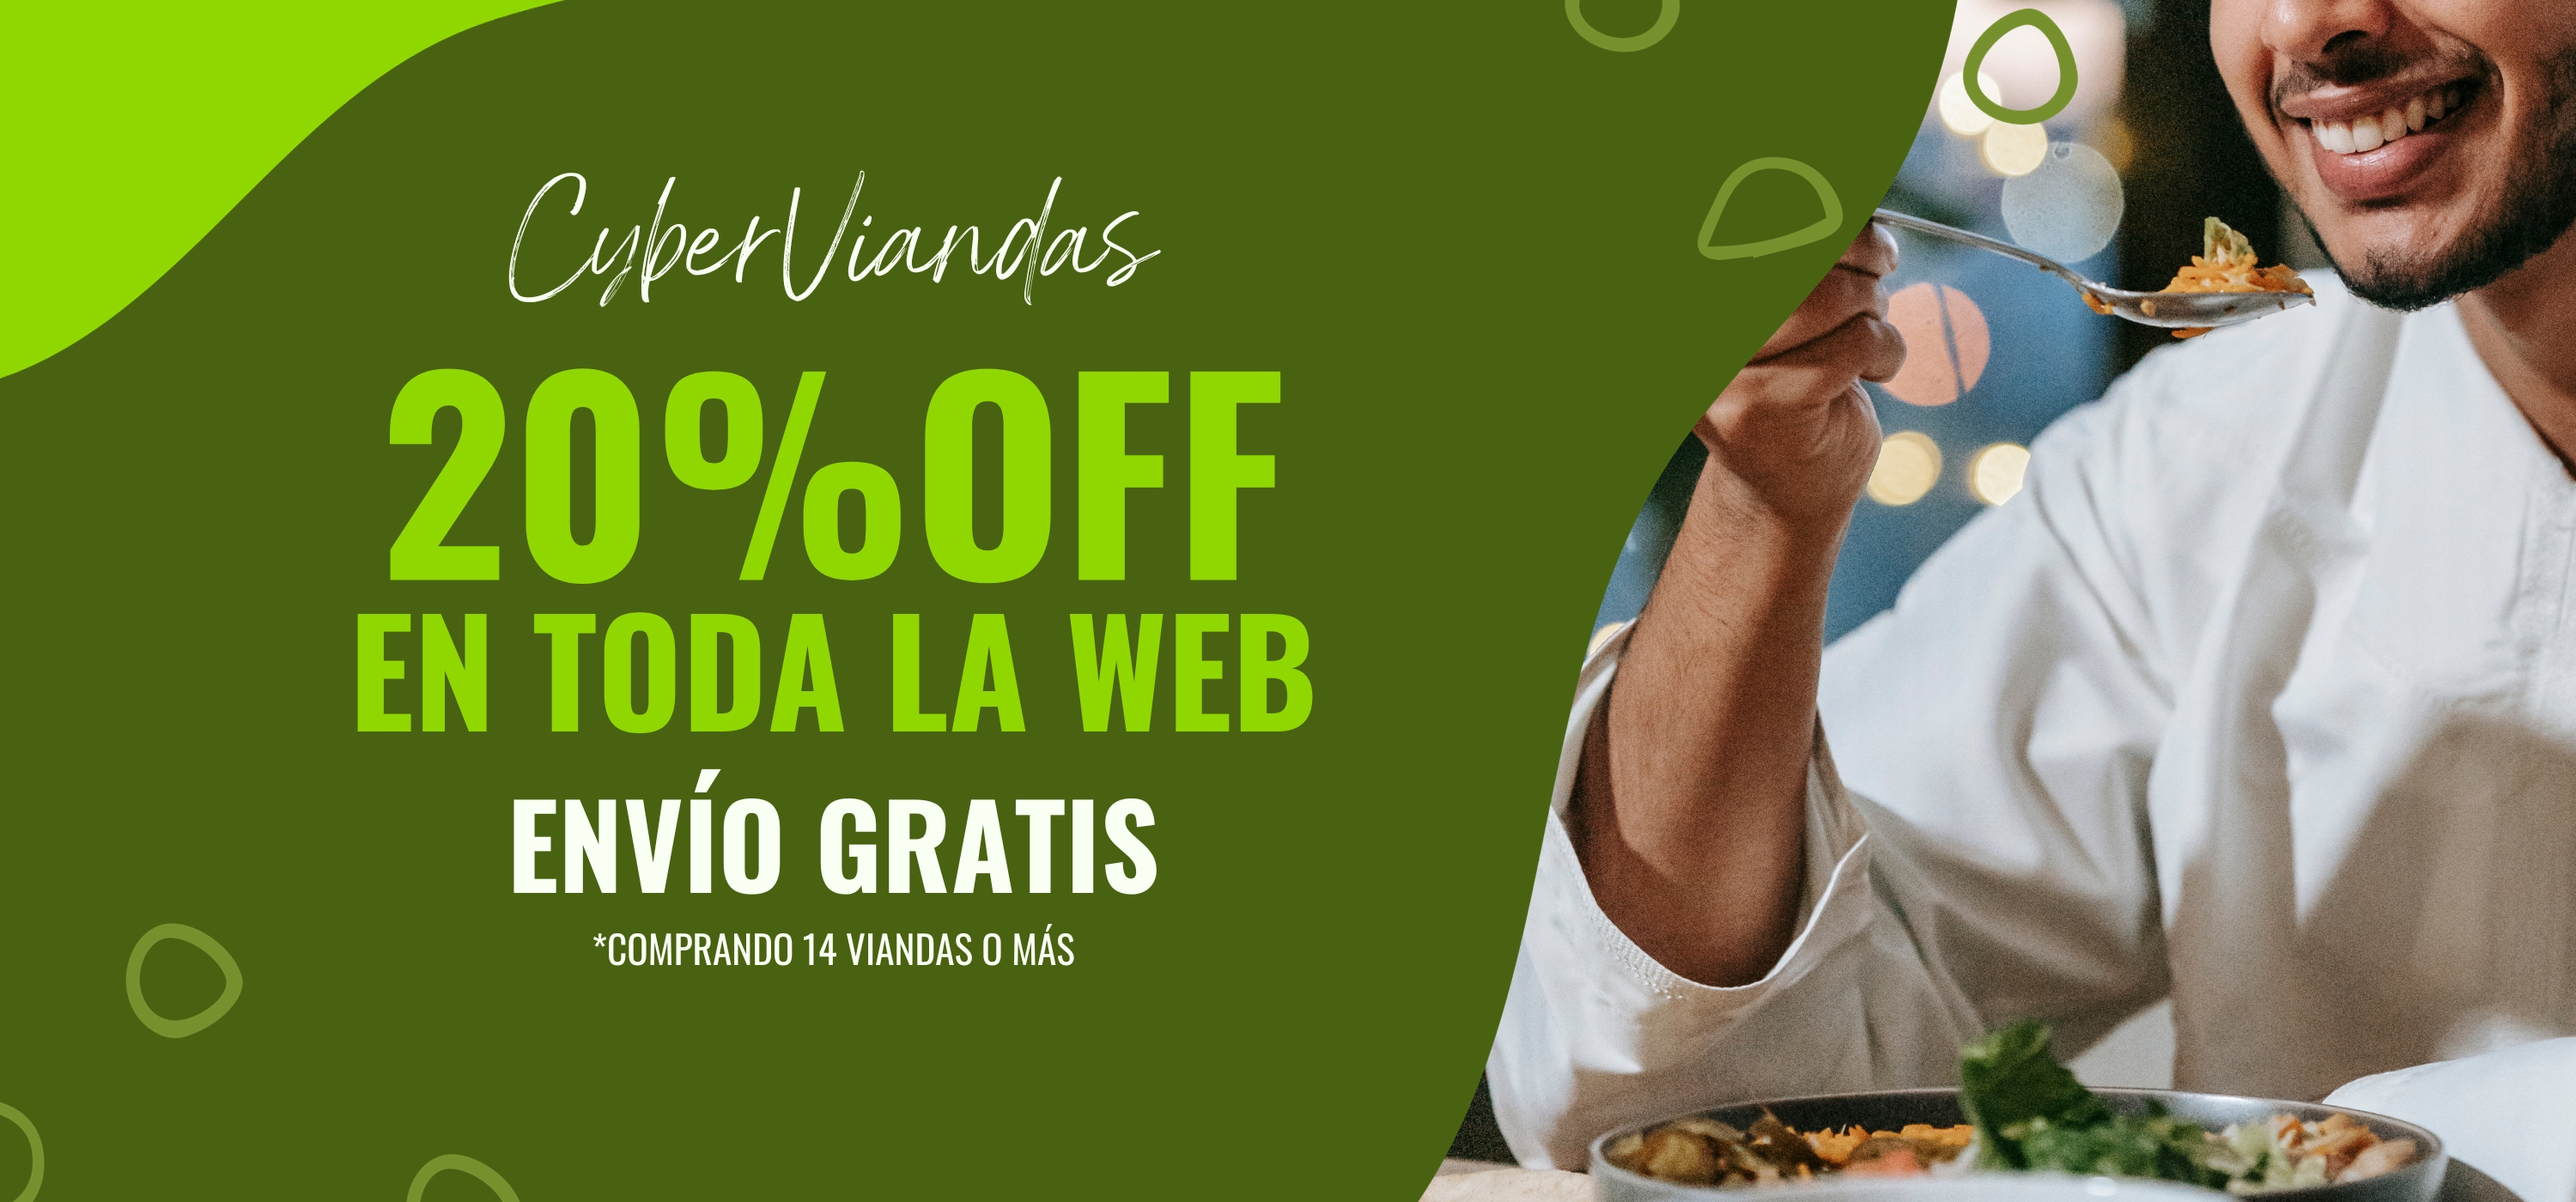
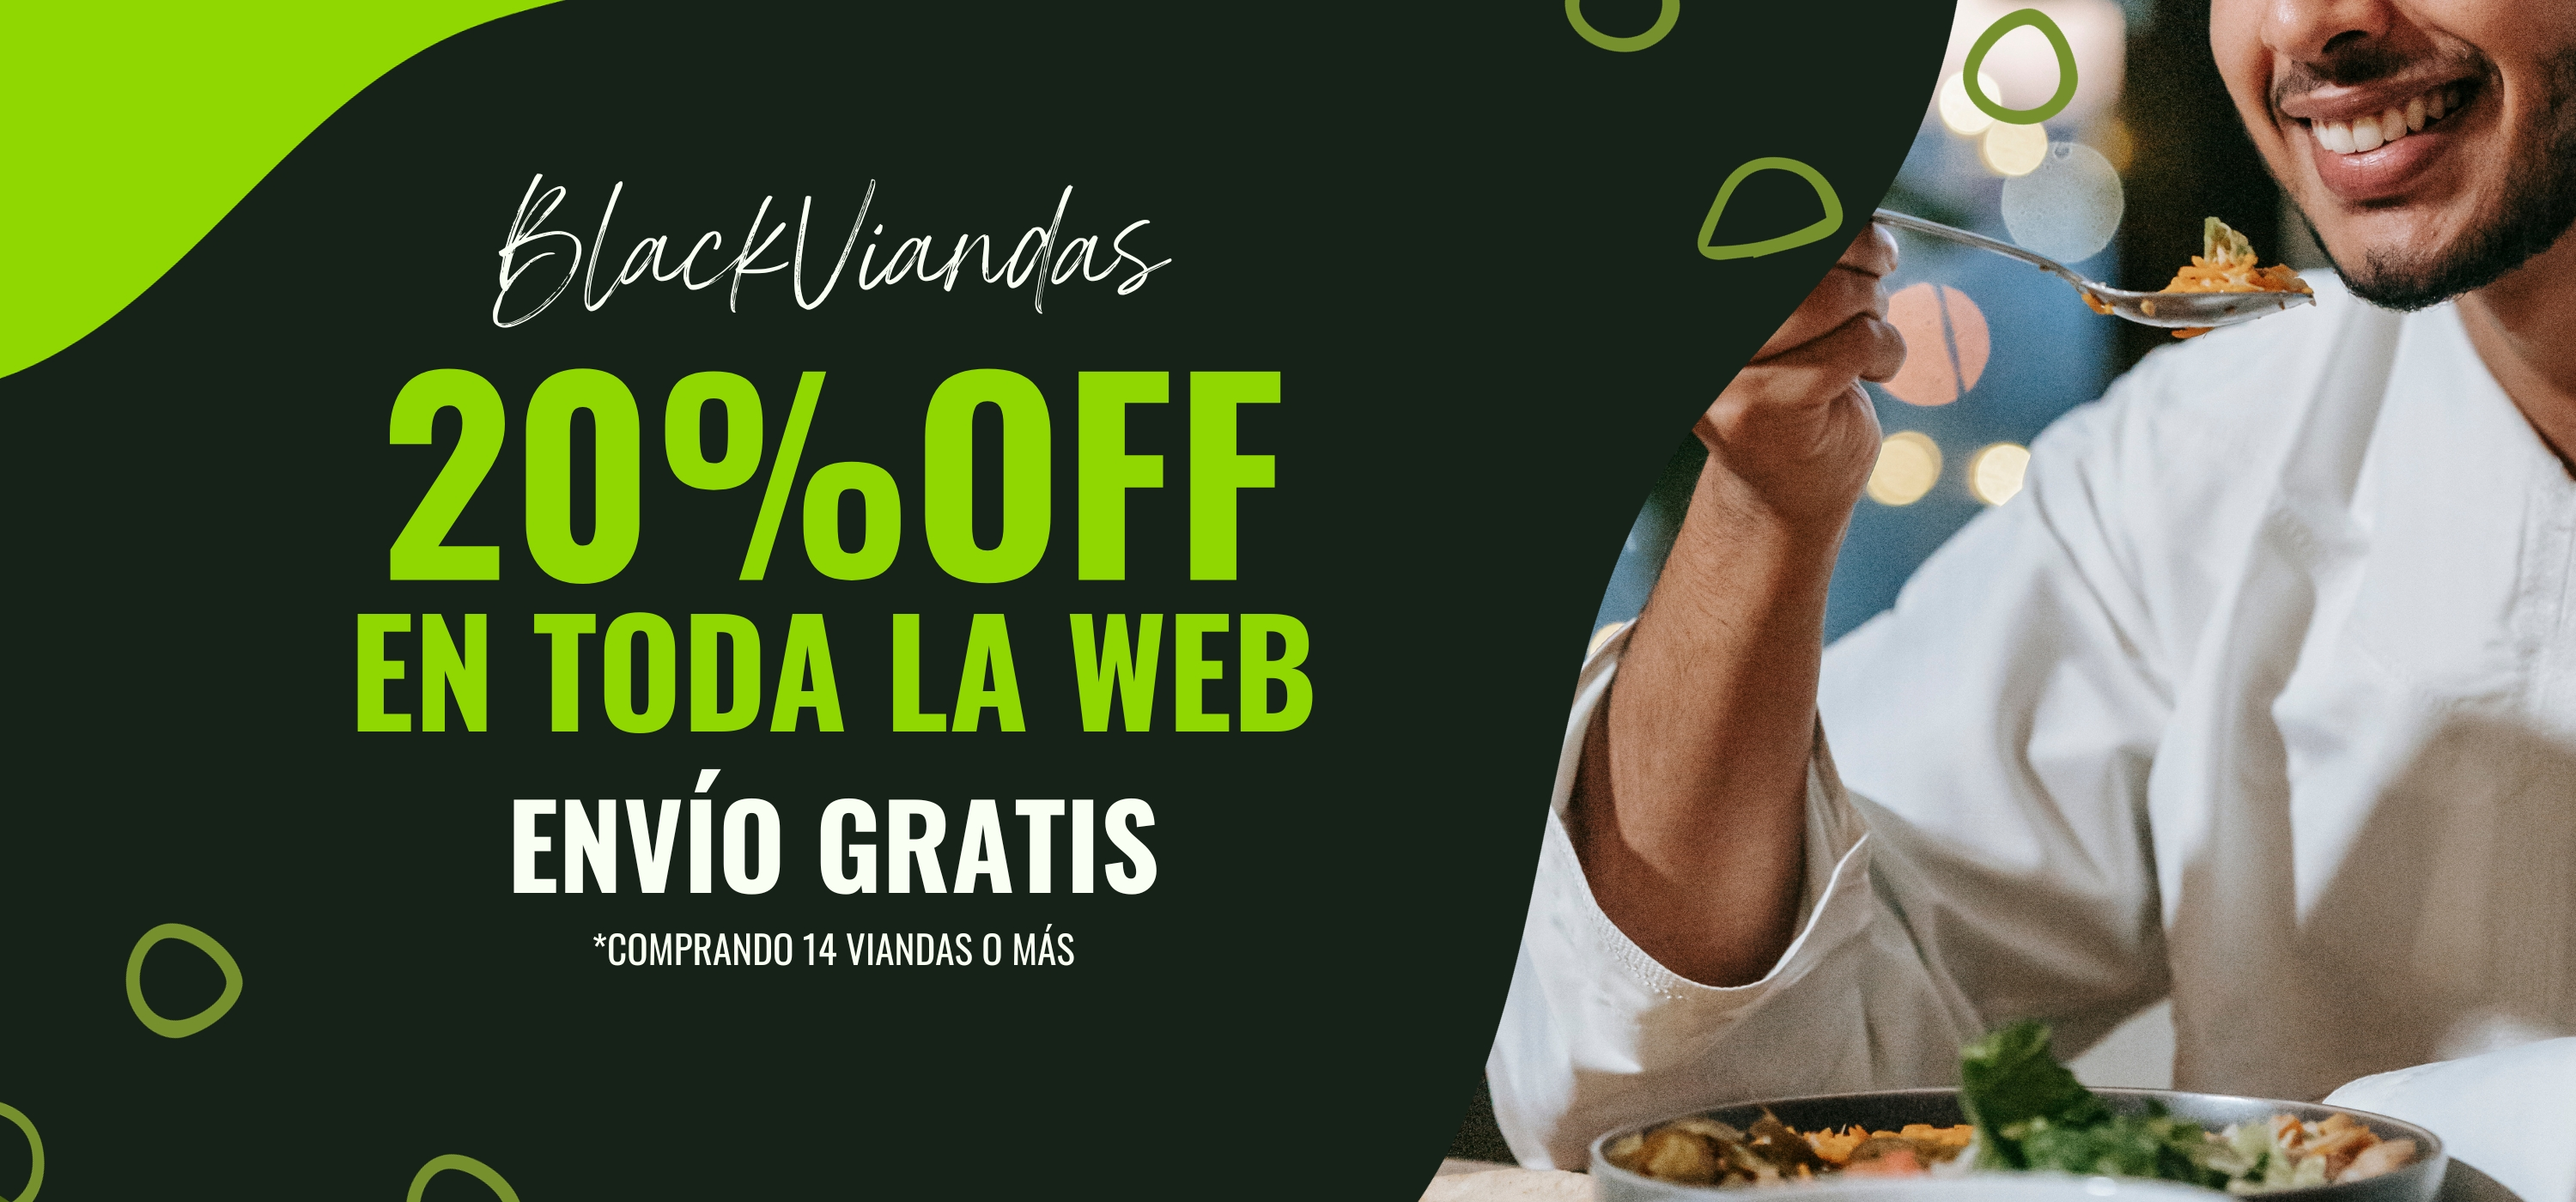
black friday

diff --git a/components/ui/News.tsx b/components/ui/News.tsx
@@ -17,7 +17,7 @@ export const News: FC = () => {
                <div className={styles.mobileBanner}>
                   <Image
                      src='/img/banner-news-mobile.jpg'
-                     alt='Cyber Monday'
+                     alt='Black Friday'
                      layout='fill'
                      objectFit='cover'
                      priority={true}
@@ -26,7 +26,7 @@ export const News: FC = () => {
                <div className={styles.desktopBanner}>
                   <Image
                      src='/img/banner-news.jpg'
-                     alt='Cyber Monday'
+                     alt='Black Friday'
                      layout='fill'
                      objectFit='cover'
                      priority={true}

diff --git a/styles/globals.css b/styles/globals.css
@@ -23,8 +23,8 @@ html {
 }
 
 body {
-   font-family: -apple-system, Oswald, Roboto, Segoe UI, Ubuntu, Fira Sans, Droid Sans,
-      Helvetica Neue, sans-serif;
+   font-family: -apple-system, Oswald, Roboto, Segoe UI, Ubuntu, Fira Sans, Droid Sans, Helvetica Neue,
+      sans-serif;
 }
 
 body::-webkit-scrollbar {
@@ -292,13 +292,13 @@ button.nav.default-nav,
    z-index: 1;
 }
 
-/* .react-slideshow-container .default-nav:first-of-type {
-   left: -15px;
+.react-slideshow-container .default-nav:first-of-type {
+   z-index: 10;
 }
 
 .react-slideshow-container .default-nav:last-of-type {
-   right: -15px;
-} */
+   z-index: 10;
+}
 
 @media (min-width: 720px) {
    .react-slideshow-container .default-nav:first-of-type {

diff --git a/components/products/ProductCard.tsx b/components/products/ProductCard.tsx
@@ -43,15 +43,15 @@ export const ProductCard: FC<Props> = ({ product }) => {
                      priority={true}
                   />
 
-                  {/* <div className={styles.tagImageWrapper}>
+                  <div className={styles.tagImageWrapper}>
                      <Image
                         src='/img/20off-tag.png'
-                        alt='20% off - Cyber Monday'
+                        alt='20% off - Black Friday'
                         width={750}
                         height={900}
                         priority={true}
                      />
-                  </div> */}
+                  </div>
                </a>
             </Link>
 

diff --git a/pages/descuentos/index.tsx b/pages/descuentos/index.tsx
@@ -35,6 +35,10 @@ const discounts = [
    //    img: '/discounts/offer-cyber-monday.png',
    // },
    {
+      name: 'Descuento Black Friday',
+      img: '/discounts/offer-black-friday.png',
+   },
+   {
       name: 'Descuento llevando 14 viandas o más',
       img: '/discounts/offer-14-viandas.png',
    },
@@ -46,10 +50,6 @@ const discounts = [
       name: 'Descuento llevando 56 viandas o más',
       img: '/discounts/offer-56-viandas.png',
    },
-   // {
-   //    name: 'Descuento Black Friday',
-   //    img: '/discounts/offer-black-friday.png',
-   // },
 ];
 
 const DiscountsPage: NextPage = () => {

diff --git a/components/ui/DiscountSlides.tsx b/components/ui/DiscountSlides.tsx
@@ -36,6 +36,10 @@ const discounts = [
    //    img: '/discounts/offer-cyber-monday.png',
    // },
    {
+      name: 'Descuento Black Friday',
+      img: '/discounts/offer-black-friday.png',
+   },
+   {
       name: 'Descuento llevando 14 viandas o más',
       img: '/discounts/offer-14-viandas.png',
    },
@@ -47,10 +51,6 @@ const discounts = [
       name: 'Descuento llevando 56 viandas o más',
       img: '/discounts/offer-56-viandas.png',
    },
-   // {
-   //    name: 'Descuento Black Friday',
-   //    img: '/discounts/offer-black-friday.png',
-   // },
 ];
 
 export const DiscountSlides = () => {

diff --git a/components/products/ProductImg.tsx b/components/products/ProductImg.tsx
@@ -22,15 +22,15 @@ export const ProductImg: FC<Props> = ({ product }) => {
                priority
             />
 
-            {/* <div className={styles.tagImageWrapper}>
+            <div className={styles.tagImageWrapper}>
                <Image
                   src='/img/20off-tag.png'
-                  alt='20% off - Cyber Monday'
+                  alt='20% off - Black Friday'
                   width={750}
                   height={900}
                   priority={true}
                />
-            </div> */}
+            </div>
          </div>
       </div>
    );

diff --git a/components/checkout/PromosList.tsx b/components/checkout/PromosList.tsx
@@ -19,6 +19,12 @@ const promosList = [
       text: 'Válido para la primera compra',
       coupon: 'bienvenido10',
    },
+   {
+      icon: <TbDiscount2 className={styles.iconPromo} />,
+      title: 'Cyber Monday',
+      text: '20% de descuento en todo el menú',
+      coupon: 'black-viandas',
+   },
    // {
    //    icon: <RiUserFill className={styles.iconPromo} />,
    //    title: 'Promo día de la madre',

diff --git a/pages/menu/index.tsx b/pages/menu/index.tsx
@@ -86,7 +86,7 @@ const ProductsPage: NextPage<Props> = ({ products }) => {
          <section className={styles.products}>
             <Breadcrumbs />
 
-            {/* <News /> */}
+            <News />
 
             <SearchProducts searchTerm={searchTerm} setSearchTerm={setSearchTerm} />
 
